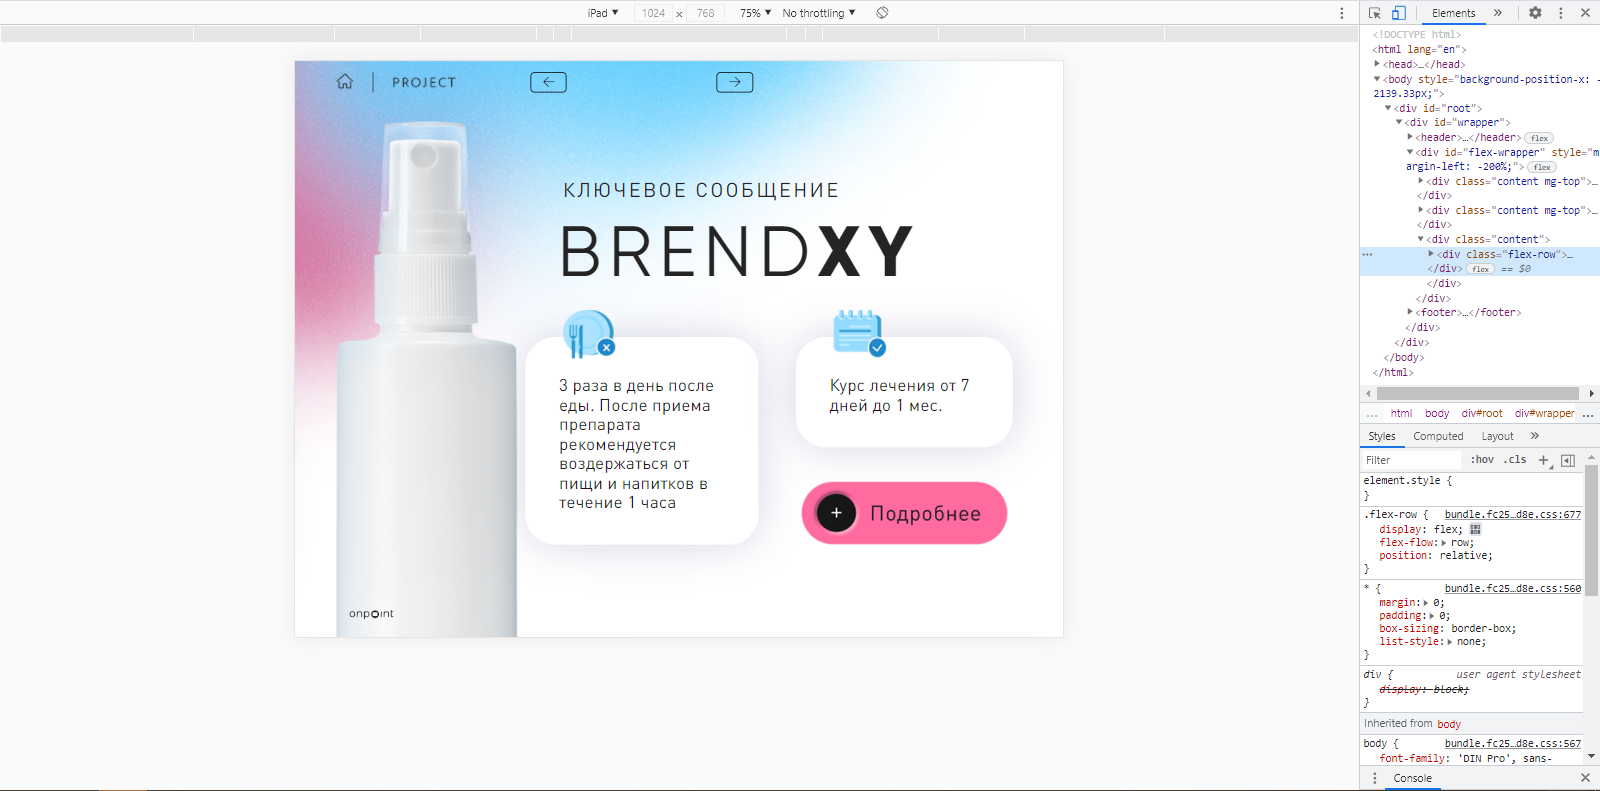
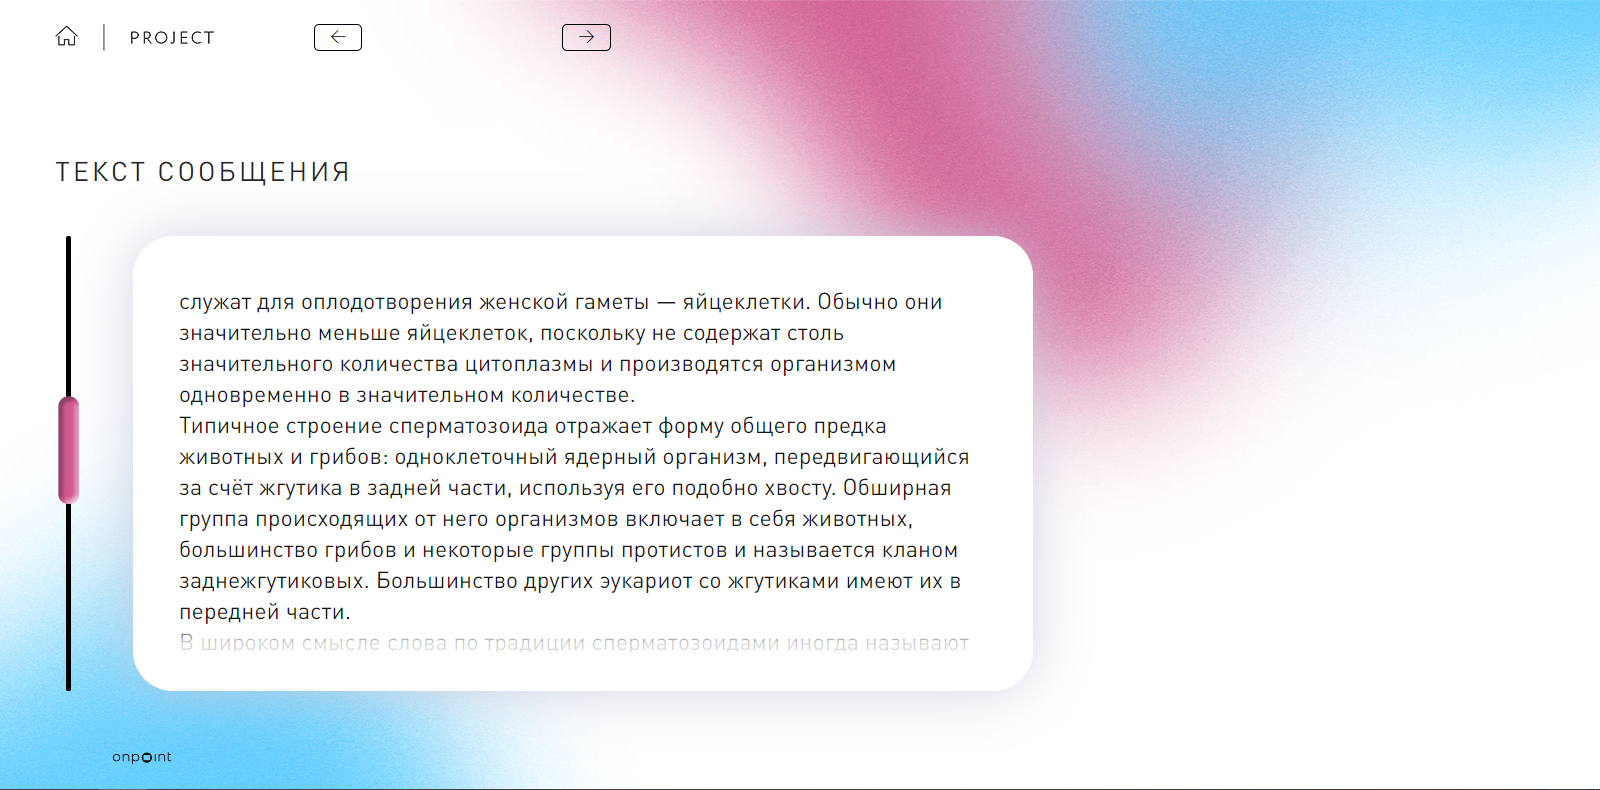
buid: Указать дополнительную директорию для copy-webpack-plugin

diff --git a/src/components/Modal.js b/src/components/Modal.js
@@ -28,7 +28,7 @@ export default function Modal({onClick, addListeners}) {
 			<div id='modal-body'>
 				<button className='close-button'>
 					<img 
-						src='../../src/assets/img/close-button.png' 
+						src='img/close-button.png' 
 						alt='close' onClick={() => {onClick(); addListeners()}} />
 				</button>
 				<div className='animation-box'>
@@ -43,18 +43,18 @@ export default function Modal({onClick, addListeners}) {
 					</div>
 					<div id='pagination'>
 						<button className='prev-button' onClick={() => handleClick('prev')}>
-							<img src='../../src/assets/img/prev-button.png' alt='prev' />
+							<img src='img/prev-button.png' alt='prev' />
 						</button>
 						<img 
-							src={`../../src/assets/img/${hightlightCircle(1)}`} 
+							src={`img/${hightlightCircle(1)}`} 
 							alt='1'
 							onClick={() => handleClick('prev')} />
 						<img 
-							src={`../../src/assets/img/${hightlightCircle(2)}`}
+							src={`img/${hightlightCircle(2)}`}
 							alt='2'
 							onClick={() => handleClick('next')} />
 						<button className='next-button' onClick={() => handleClick('next')}>
-							<img src='../../src/assets/img/next-button.png' alt='next' />
+							<img src='img/next-button.png' alt='next' />
 						</button>
 					</div>
 				</div>

diff --git a/src/components/BottlePage.js b/src/components/BottlePage.js
@@ -10,7 +10,7 @@ export default function BottlePage({onClick}) {
 					<h1 className='brand'>BREND<strong>XY</strong></h1>
 					<div className='flex-row details-boxes'>
 						<img 
-							src="../../src/assets/img/icon1.png" 
+							src="img/icon1.png" 
 							alt="icon" className='icon'
 							onPointerDown={(e) => e.preventDefault()} />
 						<p className='details-box first'>
@@ -22,7 +22,7 @@ export default function BottlePage({onClick}) {
 						</p>
 						<div className='flex-column'>
 							<img 
-								src="../../src/assets/img/icon2.png" 
+								src="img/icon2.png" 
 								alt="icon" className='icon second'
 								onPointerDown={(e) => e.preventDefault()} />
 							<p className='details-box second'>
@@ -31,7 +31,7 @@ export default function BottlePage({onClick}) {
 							</p>
 							<button id='details-button' onClick={onClick}>
 								<img 
-									src='../../src/assets/img/details.png' 
+									src='img/details.png' 
 									alt='next' 
 									onPointerDown={(e) => e.preventDefault()} />
 							</button>

diff --git a/src/components/Hello.js b/src/components/Hello.js
@@ -8,7 +8,7 @@ export default function Hello({elem, swipe}) {
 				Это <strong>не</strong> <br />коммерческое <br />задание
 				<button id='whats-next-button' onClick={() => swipe(elem.current, 'left')}>
 					<img 
-						src='../../src/assets/img/whats-next-button.png' 
+						src='img/whats-next-button.png' 
 						alt='next' 
 						onPointerDown={(e) => e.preventDefault()} />
 				</button>

diff --git a/src/components/Info.js b/src/components/Info.js
@@ -46,7 +46,6 @@ export default function Info({removeListeners, addListeners}) {
 
 		document.addEventListener('touchmove', onTouchMove);
 
-		document.addEventListener('touchend', onTouchEnd);
 		document.ontouchend = function() {
 			document.removeEventListener('touchmove', onTouchMove);
 			document.ontouchend = null;

diff --git a/webpack.config.js b/webpack.config.js
@@ -36,6 +36,10 @@ module.exports = {
 				{
 					from: path.resolve(__dirname, 'public/favicon.ico'),
 					to: path.resolve(__dirname, 'dist')
+				},
+				{
+					from: path.resolve(__dirname, 'src/assets/img/'),
+					to: path.resolve(__dirname, 'dist/img')
 				}
 			]
 		}),

diff --git a/src/components/Header.js b/src/components/Header.js
@@ -4,7 +4,7 @@ export default function Header({elem, swipe}) {
 	return (
 		<header>
 			<img 
-				src='../../src/assets/img/home.png' 
+				src='img/home.png' 
 				alt='home' 
 				useMap='#navigation' 
 				onPointerDown={(e) => e.preventDefault()} />

diff --git a/src/components/Footer.js b/src/components/Footer.js
@@ -4,7 +4,7 @@ export default function Footer() {
 	return (
 		<footer>
 			<img 
-				src="../../src/assets/img/footer.png" 
+				src="img/footer.png" 
 				alt="onpoint" 
 				onPointerDown={(e) => e.preventDefault()} />
 		</footer>

diff --git a/README.md b/README.md
@@ -1,10 +1,12 @@
 # onpoint тестовое задание Frontend  
-Приложение реализовано в виде страницы с горизонтальной ориентацией. По слайдам перемещение осуществляется с помощью горизонтального свайпа и ссылок.
+Приложение реализовано в виде страницы с горизонтальной ориентацией. По слайдам перемещение осуществляется с помощью горизонтального свайпа и ссылок. На втором слайде текст прокручивается ползунком.
 
 Использован React  
 Сборка webpack. В директории для запуска консольные команды  
-"npm install" и "npm start"
+"npm install" и "npm start"/"npm run dev"/"npm run build"
 
 Скриншоты
 ![Скрин](screenshots/1.png "screenshot1")
 ![Скрин](screenshots/2.png "screenshot2")
+![Скрин](screenshots/3.png "screenshot3")
+![Скрин](screenshots/4.png "screenshot4")
